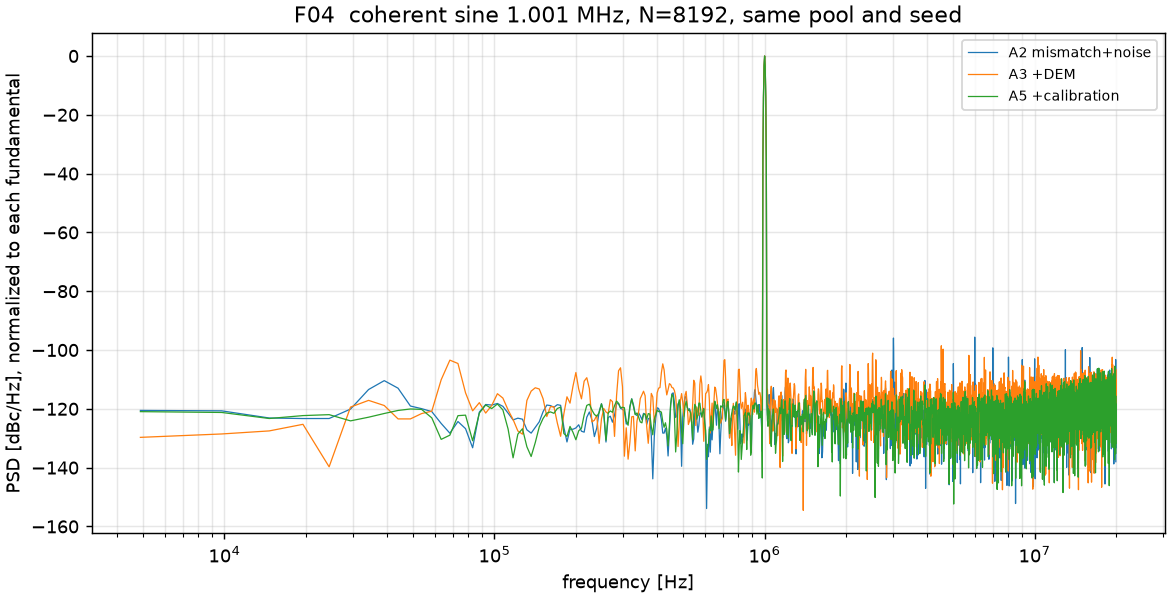
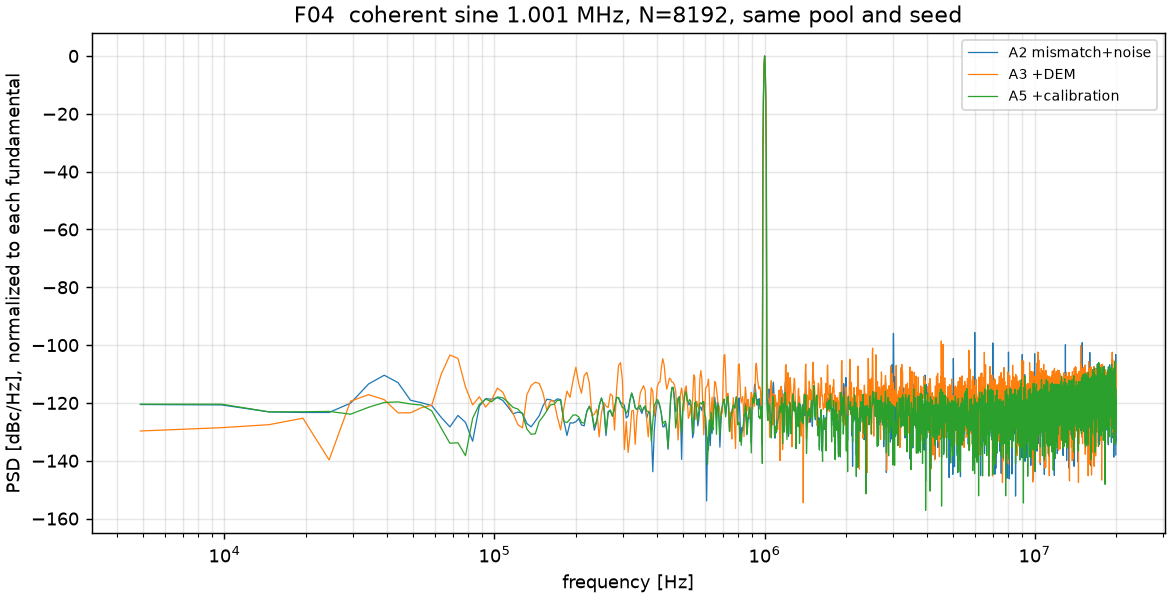
fix(gate+docs+data): 重新生成陈旧图；C4 从"警告"升级为"失败"
## 发现：门禁显示 PASS 但内容是警告
`check_engineering.py` 的 C4 输出：
  PASS  C4 result identity ... WARNING figures are STALE (source_sha f9d6d10 != HEAD)
                    : do not cite them as current-model results

**门禁说自己通过了，同时叫你别引用这批图。**

## 核实：图确实过时了
`f9d6d10..HEAD` 之间 `src/` 有 11 次提交，其中 **2 次改变了模型行为**：
- `ddd9500` 修掉 v1 路径的双重减法
- `396e9d3` dither 的 step_q 从 2^24 改为 16 810 048

⇒ 旧图反映的是**旧模型**的输出。

## 顺带发现 README 命令有问题
README 写 `run_review_figures.py --points 256 --repeats 32`，
但：
1. C4 要求 points ≥ 512（要覆盖全部 512 个粗码）
2. 归档矩阵用的是 **512 点 × 8 次**，图用 256×32 ⇒ **图与矩阵数字对不上**

已改为 `--points 512 --repeats 8`，与矩阵一致，并加注释说清这两个约束。

## 重新生成图
用 512×8 重生成后，C4 通过且**无 STALE 警告**。

## C4 从警告升级为失败
原设计"只警告不失败"的理由是"这批图本来就要按新几何重生成（P2 未完成）"。
但 **17/5 迁移已完成**，重生成是可行的
⇒ 图要么是当前的，要么是错的，没有"过时但可接受"这一档。

已加反向验证：把 source_sha 改回旧值 → C4 失败并给出修复命令（6/7）。

## 状态
工程自检 7/7（且这次是"真的通过"，不是"带警告通过"）
测试 1814 passed。

diff --git a/tools/check_engineering.py b/tools/check_engineering.py
@@ -153,11 +153,14 @@ def check_result_identity() -> None:
         else "; ".join(problems)
     )
     if checked and stale:
-        # 不判失败：这批图本来就要按新几何重生成（P2 未完成），
-        # 但必须让读者看见"这些图不是当前代码的产物"。
+        # 2026-11-13：原设计是"只警告不失败"，理由是"这批图本来就要按新几何重生成"。
+        # 但 17/5 迁移**已经完成**，模型在 f9d6d10..HEAD 之间有 11 次提交、
+        # 其中 2 次改变了行为（双重减法、dither step_q）⇒ 旧图确实已不代表当前模型。
+        # 既然现在重生成是可行的，"警告"就不再合适——图要么是当前的，要么是错的。
+        checked = False
         detail += (
-            f"; WARNING figures are STALE (source_sha {stale} != HEAD): "
-            "do not cite them as current-model results"
+            f"; STALE figures: source_sha {stale} != HEAD — run "
+            "`tools/run_review_figures.py --points 512 --repeats 8` to regenerate"
         )
     record("C4 result identity", checked, detail)
 

diff --git a/README.md b/README.md
@@ -241,10 +241,12 @@ PYTHONPATH=src python -m pytest tests/unit/test_{follower,dem3d,dither_port,dith
 # 3) 外部审查的修复回归（应 4/4 PASS）
 PYTHONPATH=src python3 tools/check_audit_findings.py
 
-# 4) 复算矩阵与图（两处 repeats 必须一致，否则图与矩阵数字对不上）
-PYTHONPATH=src:. python3 tools/run_p4_ablation.py --dynamic-n 8192 --static-points 256 \
-  --static-repeats 32 --out docs/reviews/20261113_p3p4/data
-PYTHONPATH=src:. python3 tools/run_review_figures.py --points 256 --repeats 32 \
+# 4) 复算矩阵与图
+#    ⚠ **两处的 --static-points/--points 与 repeats 必须一致**，否则图与矩阵数字对不上；
+#    且 points 必须 ≥ 512，否则无法覆盖全部 512 个粗码（C4 门禁会失败）。
+PYTHONPATH=src:. python3 tools/run_p4_ablation.py --dynamic-n 8192 --static-points 512 \
+  --static-repeats 8 --out docs/reviews/20261113_p3p4/data
+PYTHONPATH=src:. python3 tools/run_review_figures.py --points 512 --repeats 8 \
   --dynamic-n 8192 --out docs/reviews/20261113_p3p4/figures
 
 # 5) 一笔样本的完整链路
